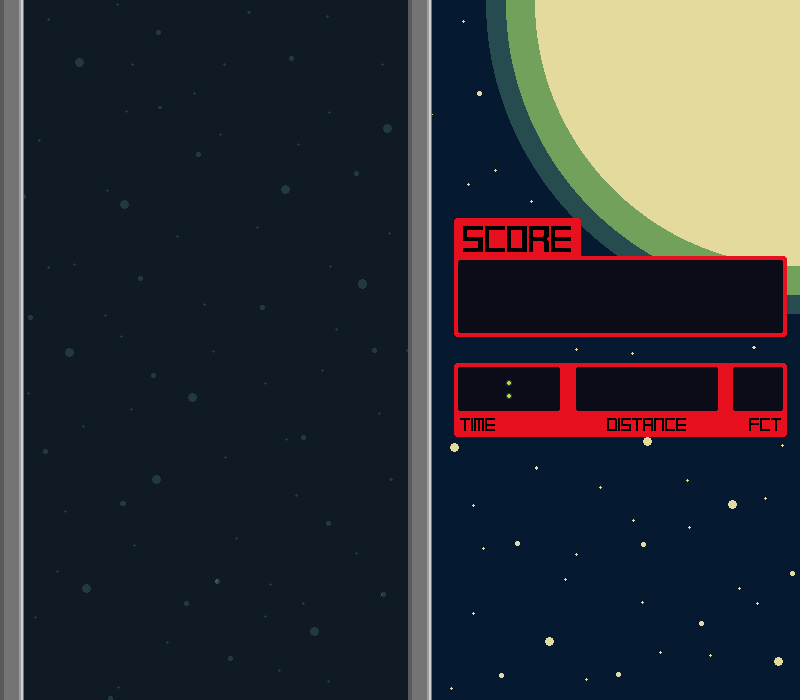
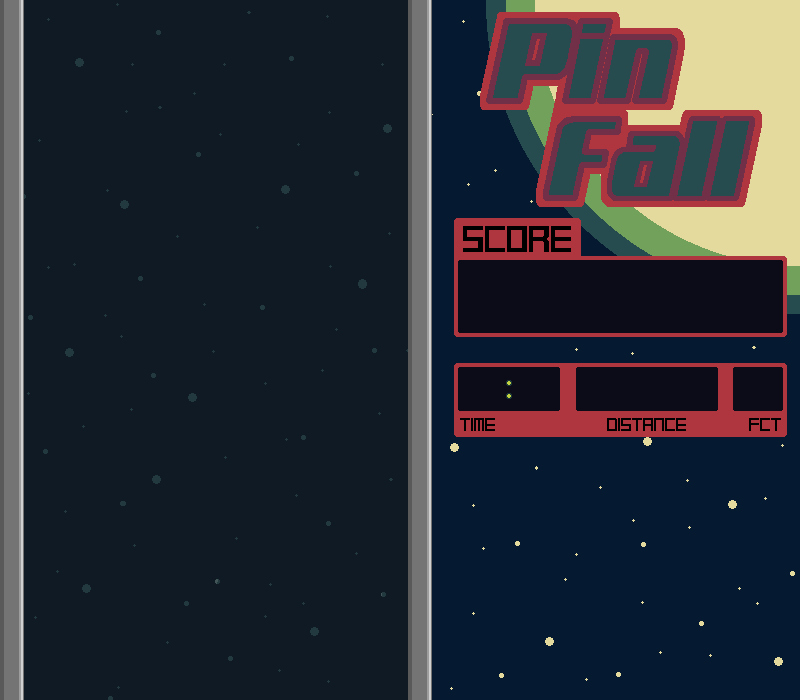
Created and implemented title graphic.

Changed region(s): [[0.5625, 0.0, 1.0, 0.48], [0.5625, 0.51, 1.0, 0.63]]

diff --git a/js/basic/Preload.js b/js/basic/Preload.js
@@ -46,8 +46,8 @@ Preload.prototype = Object.create(Phaser.State)
     // reaching this point, everything was loaded an we can start the game
     p.create = function() {
         console.log("created Preload")
-        //this.game.state.start("Title")
-        this.game.state.start("Game")
+        this.game.state.start("Title")
+        //this.game.state.start("Game")
     }
     
     
